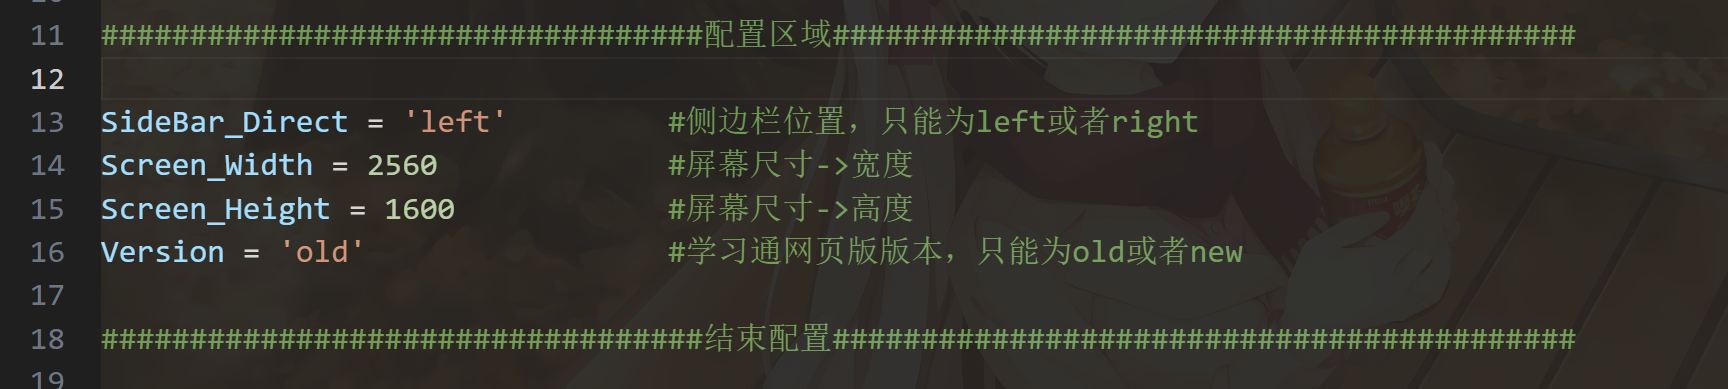
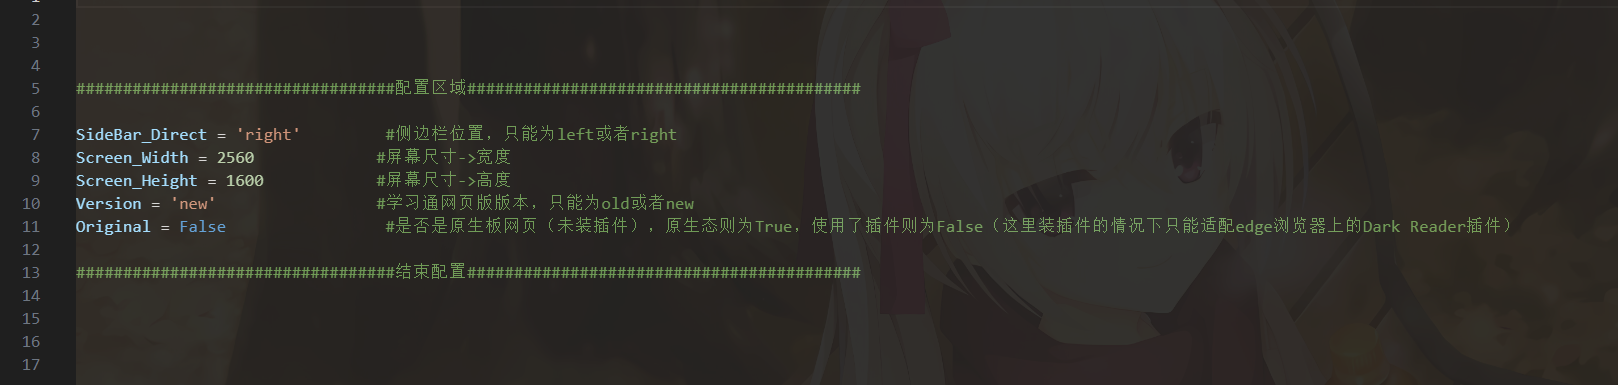
update

diff --git a/monitor.py b/monitor.py
@@ -38,7 +38,7 @@ class monitor_sidebar():
                 elif side == 'right':
                     mouseact.mouse_move_click(int(main.Screen_Width / 11 * 10), int(main.Screen_Height / 2))
                 time.sleep(0.1)
-                mouseact.mouse_scroll('down', 30 * 10)
+                mouseact.mouse_scroll('down', 30 * 12)
                 new_screen = main.screen_update()
                 repeat_time += 1
                 self.update(new_screen, repeat_time, side)
@@ -51,19 +51,19 @@ class monitor_sidebar():
             self.cur_index = index
             self.cur_index_x, self.cur_index_y = watching.img_get_location(self.contours, self.cur_index)
             mouseact.mouse_move_click(self.cur_index_x - 13 * self.edge_length, self.cur_index_y + int(self.edge_length / 4), clicks = 1)
-            new_screen = main.screen_update()
-            contours_select, _ = watching.img_color_search(new_screen, main.color_dict['select_green'][0], main.color_dict['select_green'][1])
-            if main.Version == 'old':
-                while contours_select == [] and Monitor_Flag:
-                    mouseact.mouse_move_click(self.cur_index_x - 13 * self.edge_length, self.cur_index_y + int(self.edge_length / 4), clicks = 1)
-                    new_screen = main.screen_update()
-                    contours_select, _ = watching.img_color_search(new_screen, main.color_dict['select_green'][0], main.color_dict['select_green'][1])
-                cur_select_y = contours_select[0][0][0][1]
-                while math.fabs(cur_select_y - self.cur_index_y) > 20 and Monitor_Flag:
-                    mouseact.mouse_move_click(self.cur_index_x - 13 * self.edge_length, self.cur_index_y + int(self.edge_length / 4), clicks = 1)
-                    new_screen = main.screen_update()
-                    contours_select, _ = watching.img_color_search(new_screen, main.color_dict['select_green'][0], main.color_dict['select_green'][1])
-                    cur_select_y = contours_select[0][0][0][1]
+            # new_screen = main.screen_update()
+            # contours_select, _ = watching.img_color_search(new_screen, main.color_dict['select_green'][0], main.color_dict['select_green'][1])
+            # if main.Version == 'old':
+            #     while contours_select == [] and Monitor_Flag:
+            #         mouseact.mouse_move_click(self.cur_index_x - 13 * self.edge_length, self.cur_index_y + int(self.edge_length / 4), clicks = 1)
+            #         new_screen = main.screen_update()
+            #         contours_select, _ = watching.img_color_search(new_screen, main.color_dict['select_green'][0], main.color_dict['select_green'][1])
+            #     cur_select_y = contours_select[0][0][0][1]
+            #     while math.fabs(cur_select_y - self.cur_index_y) > 20 and Monitor_Flag:
+            #         mouseact.mouse_move_click(self.cur_index_x - 13 * self.edge_length, self.cur_index_y + int(self.edge_length / 4), clicks = 1)
+            #         new_screen = main.screen_update()
+            #         contours_select, _ = watching.img_color_search(new_screen, main.color_dict['select_green'][0], main.color_dict['select_green'][1])
+            #         cur_select_y = contours_select[0][0][0][1]
 
     def show_result(self, img_src: cv2.typing.MatLike):
         if self.state == 1:
@@ -109,7 +109,7 @@ class monitor_text():
             print('当前章节任务已完成')
 
     def start_work(self, sidebar_info: monitor_sidebar):
-        while self.cur_index_y > int(main.Screen_Height / 3.5) and Monitor_Flag:
+        while self.cur_index_y > int(main.Screen_Height / 3) and Monitor_Flag:
             if sidebar_info.side == 'left':
                 mouseact.mouse_move_click(sidebar_info.cur_index_x + sidebar_info.edge_length * 5, int(main.Screen_Height / 2))
             elif sidebar_info.side == 'right':
@@ -118,15 +118,15 @@ class monitor_text():
             time.sleep(0.1)
             new_screen = main.screen_update()
             self.update(new_screen, sidebar_info, 0)
-        time.sleep(0.5)
+        time.sleep(0.1)
         if main.Version == 'old':
             mouseact.mouse_move_click(self.cur_index_x + self.edge_length * 29, self.cur_index_y + self.edge_length * 18)
         elif main.Version == 'new':
-            mouseact.mouse_move_click(self.cur_index_x + self.edge_length * 40, self.cur_index_y + self.edge_length * 25)
+            mouseact.mouse_move_click(self.cur_index_x + self.edge_length * 41, self.cur_index_y + self.edge_length * 25)
         time.sleep(0.5)
         pre_screen = main.screen_update()
         mouseact.mouse_move_click(clicks = 1)
-        time.sleep(2)
+        time.sleep(0.2)
         new_screen = main.screen_update()
         state = watching.img_compare(pre_screen, new_screen)
         print(state)
@@ -161,7 +161,7 @@ class monitor_text():
             self.update(new_screen, sidebar_info, 0)
             cur_index_y = self.cur_index_y
             if cur_index_y != 0:
-                if abs(pre_index_y - cur_index_y) < 20:     #任务点仍未完成，即出现黑屏播放水视频情况
+                if abs(pre_index_y - cur_index_y) < 50:     #任务点仍未完成，即出现黑屏播放水视频情况
                     print('视频未结束')
                 else:
                     print('视频结束')

diff --git a/main.py b/main.py
@@ -1,3 +1,4 @@
+import user_config
 import mss
 import cv2
 from pynput import keyboard
@@ -5,38 +6,45 @@ import numpy as np
 import monitor
 import time
 
-
-
-
-##################################配置区域##########################################
-
-SideBar_Direct = 'left'         #侧边栏位置，只能为left或者right
-Screen_Width = 2560             #屏幕尺寸->宽度
-Screen_Height = 1600            #屏幕尺寸->高度
-Version = 'old'                 #学习通网页版版本，只能为old或者new
-
-##################################结束配置##########################################
-
-
-
+SideBar_Direct = user_config.SideBar_Direct     #侧边栏位置，只能为left或者right
+Screen_Width = user_config.Screen_Width         #屏幕尺寸->宽度
+Screen_Height = user_config.Screen_Height       #屏幕尺寸->高度
+Version = user_config.Version                   #学习通网页版版本，只能为old或者new
+Original = user_config.Original                 #是否是原生板网页（未装插件），原生态则为True，使用了插件则为False（这里装插件的情况下只能适配edge浏览器上的Dark Reader插件）
 
 start_flag = False
 
 #关键点色彩阈值
-if Version == 'old':
-    color_dict = {
-        # 老版本
-        'unread_color_red': np.array([[0, 52, 159], [44, 80, 186]]),
-        'unread_color_yellow': np.array([[45, 168, 254], [78, 200, 255]]),
-        'select_green': np.array([[39, 133, 103], [43, 137, 107]]),  
-    }
-elif Version == 'new':
-    color_dict = {
-        # 新版本
-        'unread_color_red': np.array([[71, 178, 247], [120, 211, 253]]),
-        'unread_color_yellow': np.array([[45, 168, 254], [78, 200, 255]]),
-        'select_green': np.array([[39, 133, 103], [43, 137, 107]]),
-    }
+if Original:    #原生态配色
+    if Version == 'old':
+        color_dict = {
+            # 老版本
+            'unread_color_red': np.array([[46, 114, 233], [69, 130, 255]]),
+            'unread_color_yellow': np.array([[45, 168, 254], [78, 200, 255]]),
+            'select_green': np.array([[47, 149, 118], [63, 160, 132]]),  
+        }
+    elif Version == 'new':
+        color_dict = {
+            # 新版本
+            'unread_color_red': np.array([[68, 164, 233], [140, 232, 254]]),
+            'unread_color_yellow': np.array([[45, 168, 254], [78, 200, 255]]),
+            'select_green': np.array([[39, 133, 103], [43, 137, 107]]),  
+        }
+else:       #使用Dark Reader插件后的配色
+    if Version == 'old':
+        color_dict = {
+            # 老版本
+            'unread_color_red': np.array([[0, 52, 159], [44, 80, 186]]),
+            'unread_color_yellow': np.array([[45, 168, 254], [78, 200, 255]]),
+            'select_green': np.array([[39, 133, 103], [43, 137, 107]]),  
+        }
+    elif Version == 'new':
+        color_dict = {
+            # 新版本
+            'unread_color_red': np.array([[71, 178, 247], [120, 211, 253]]),
+            'unread_color_yellow': np.array([[45, 168, 254], [78, 200, 255]]),
+            'select_green': np.array([[39, 133, 103], [43, 137, 107]]),
+        }
 
 def main():
     #初始化mss用于屏幕捕获

diff --git a/watching.py b/watching.py
@@ -12,7 +12,7 @@ def __img_sumarea(contours):
 def __img_filter(contours):
     new_contours = []
     for cnt in contours:
-        if cv2.contourArea(cnt) < 100:
+        if cv2.contourArea(cnt) < 200:
             continue
         else:
             new_contours.append(cnt)
@@ -28,6 +28,11 @@ def img_color_search(src: cv2.typing.MatLike, min_list, max_list):
     contours, _ = cv2.findContours(mask, cv2.RETR_EXTERNAL, cv2.CHAIN_APPROX_SIMPLE)
     contours = __img_filter(contours)
 
+    # cv2.namedWindow('test', cv2.WINDOW_FREERATIO)
+    # cv2.resizeWindow('test', 400, 300)
+    # cv2.imshow('test', mask)
+    # cv2.waitKey()
+
     valid_contours = []
     edge = 0
     if len(contours) > 0:
@@ -35,7 +40,7 @@ def img_color_search(src: cv2.typing.MatLike, min_list, max_list):
         average_area = sum_area / len(contours)
         edge = int(math.sqrt(average_area))
         for cnt in contours:
-            if math.fabs(average_area - cv2.contourArea(cnt)) / average_area <= 0.3:
+            if math.fabs(average_area - cv2.contourArea(cnt)) / average_area <= 0.5:
                 valid_contours.append(cnt)
         valid_contours = sorted(valid_contours, key = lambda y_loc: y_loc[0][0][1], reverse = False)
 

diff --git a/user_config.py b/user_config.py
@@ -1,0 +1,16 @@
+
+
+
+
+##################################配置区域##########################################
+
+SideBar_Direct = 'left'         #侧边栏位置，只能为left或者right
+Screen_Width = 2560             #屏幕尺寸->宽度
+Screen_Height = 1600            #屏幕尺寸->高度
+Version = 'old'                 #学习通网页版版本，只能为old或者new
+Original = True                 #是否是原生板网页（未装插件），原生态则为True，使用了插件则为False（这里装插件的情况下只能适配edge浏览器上的Dark Reader插件）
+
+##################################结束配置##########################################
+
+
+

diff --git a/readme.md b/readme.md
@@ -1,25 +1,40 @@
 # 脚本介绍
+
 ## 简介：
 - 这是一个基于 __Opencv__ 以及 __Pyautogui__ 库作为核心写的一个依靠纯视觉，键鼠模拟的网页版学习通刷课脚本，新版或者旧版的网页版学习通都能使用
 - 纯视觉检测+键鼠模拟，没有用爬虫，应该比较安全
+
 ## 脚本功能：
 - 自动刷ppt课件：识别ppt并且模拟键鼠向下滚动刷ppt
 - 自动刷视频：识别视频并且点击刷视频
 - 识别任务点是否完成：课程所有任务点完成后自动退出脚本
+
 ## 使用说明：
-### 启动
+1. ### 配置
+![配置](./img/config.png)
+- 配置区域在config.py文件的顶部，根据自身设备信息和使用场景配置即可
+- __关于配置详情，请见注意事项！__
+
+2. ### 启动
+![说明](./img/illustration.png)
+- 配制完成后再执行main.py
 - 脚本开始执行之后，会输出提示：按下enter键以开始刷课，按下esc之后再按下enter则直接退出脚本
 - __在按下enter开始脚本之前，必须要在屏幕上留下侧边栏的位置，不然纯视觉检测不到任务点，会导致脚本无法正常运行__
-![说明](./img/illustration.png)
-### 配置
-![配置](./img/config.png)
-- 配置区域在main.py文件的顶部，根据自身设备信息和使用场景配置即可
-### 日志输出
+
+3. ### 日志输出
 ![输出](./img/output.png)
 - 输出的数字为相似度，用于监视时间线上前后界面的变化
 - 根据相似度会判断未完成任务点是什么类型的任务（只能识别ppt，视频）
-### 退出
+
+4. ### 退出
 - 刷课过程中按下esc以结束脚本，防止脚本程序抢鼠标，或者直接将鼠标移动至屏幕四个角落也能退出脚本（__Pyautogui__ 的保护特性，__有时脚本出错没有检测到esc就只能用这种方法退出脚本了__）
+
 ## 注意事项：
-- 因为是纯视觉识别，所以对色彩要求比较高，edge浏览器请务必配合   __Dark Reader__ 插件使用（因为就是装着这个插件写的脚本，一关插件发现检测不到任务点了，太痛苦了）。如果不配合 __Dark Reader__ 插件使用，就要自己修改关键点的检测阈值了
+- 关于配置：
+    - SideBar_Direct配置章节侧边栏位置（left或right）
+    - Screen_Width配置屏幕像素宽度
+    - Screen_Height配置屏幕像素高度
+    - Version配置网页版的版本（new或old）
+    - Original配置网页是否使用强制改颜色的插件（如果是原生态的学习通网页，配置True；使用了插件配置False，这里插件只支持edge浏览器上的 __Dark Reader__ 插件）
+- 如果是新版本学习通网页，网页缩放比例必须为 __100%__，如果是旧版可以缩放，但也不能太夸张
 - 可能存在很多漏洞，毕竟只用自己电脑跑过该脚本
